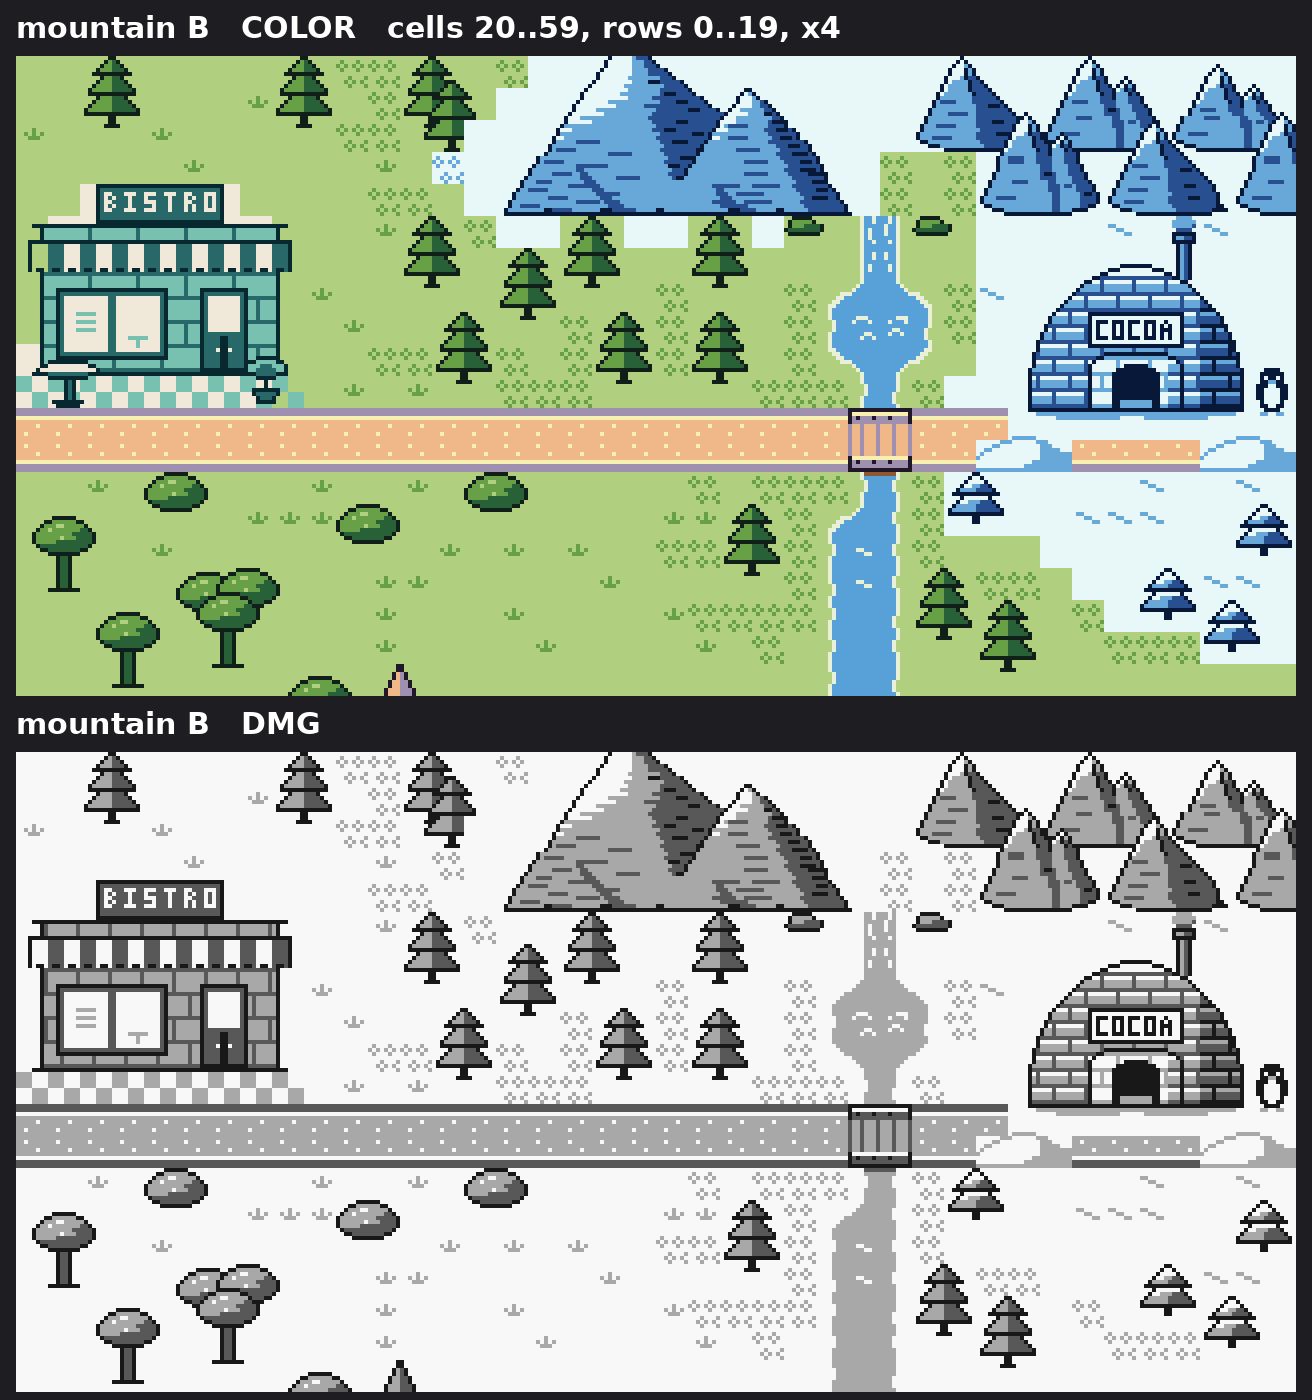
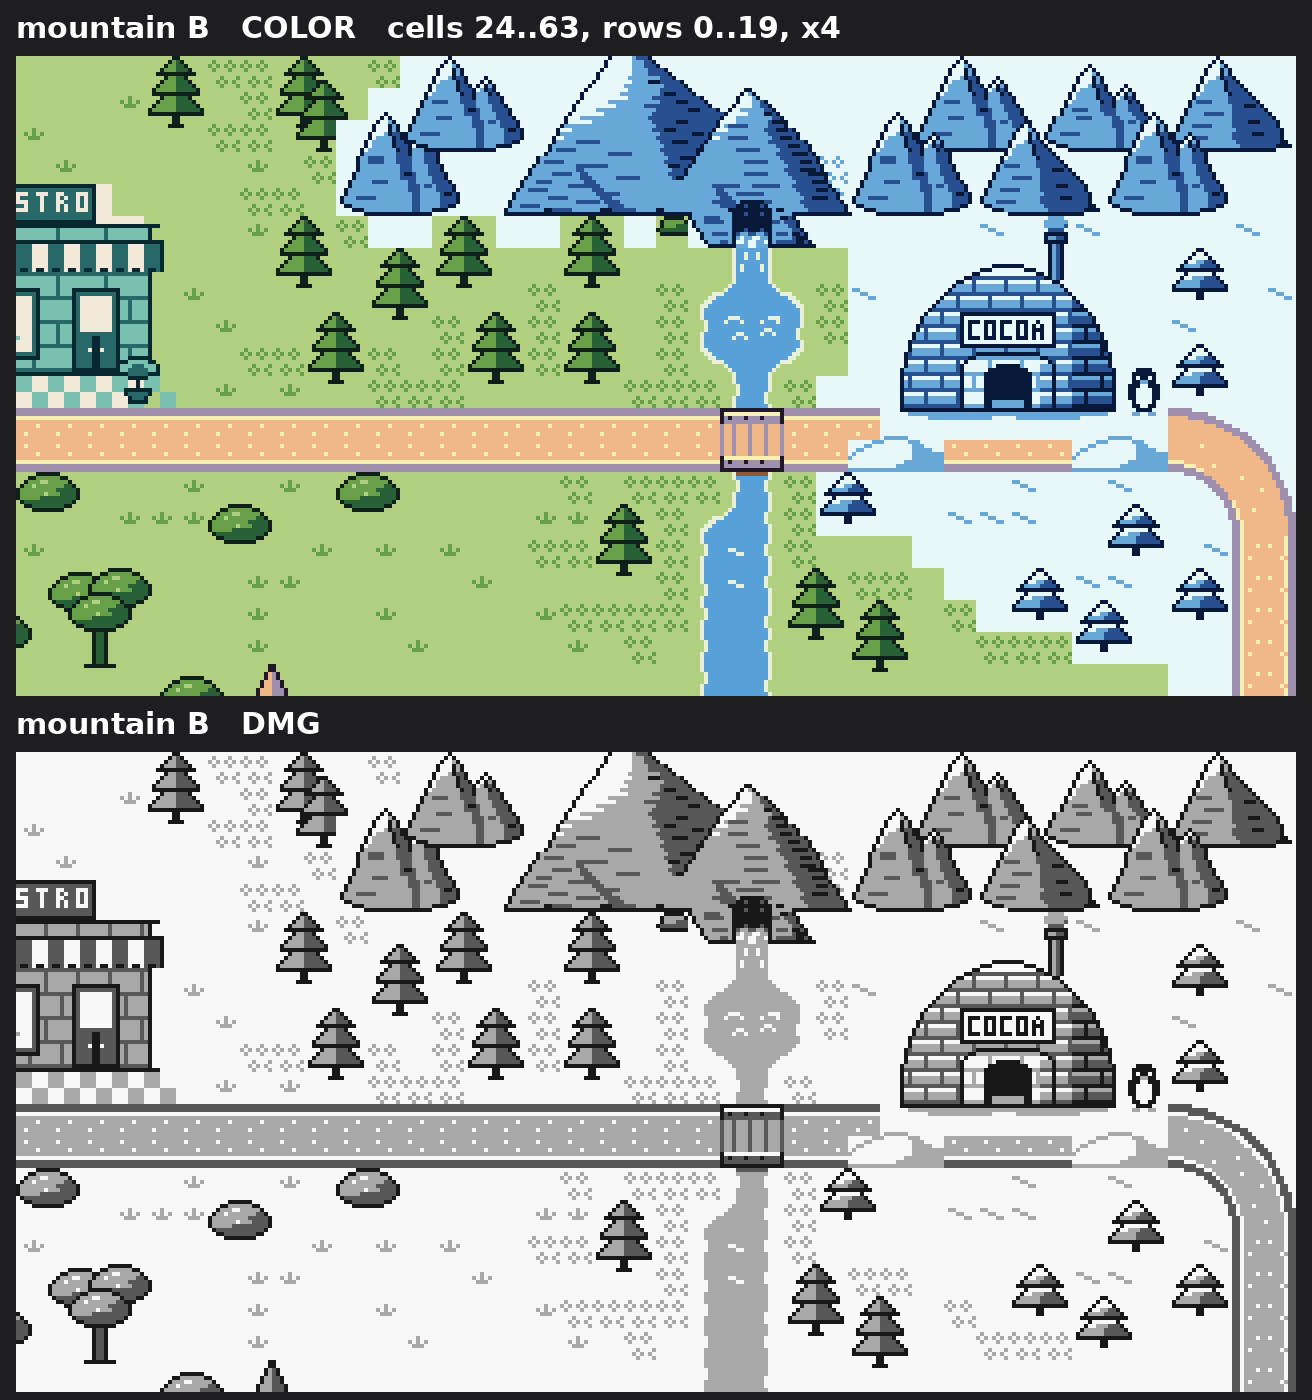
Story map import stage 1j: mountain B chosen, the falls come out of a cave mouth in its flank (owner Q117)
Proposals only, no goldens or engine budgets touched. B moves 32 px east so its right flank stands over the head of the falls; a typed rock ledge and a dark cave mouth (falls_cave.py) let the approved falls streaks come out of the mountain into the existing falls and pool. The two row-5 falls cells and the ledge cells take the igloo palette; the 6 animation images keep their count, so the VBlank peak stays 6 tiles (96 B). B is now the default: A' with B and the falls is 973 DMG / 1038 Color ids, 15 over; the teahouse +1 and four ways under 1024 are measured in NOTES.md, none applied. Window view and falls strip/GIF added.

Claude-Session: https://claude.ai/code/session_01WXumg9pvGTKbXyU3qBciuY

diff --git a/docs/dev/proposals/smap_import/falls_cave.py b/docs/dev/proposals/smap_import/falls_cave.py
@@ -1,0 +1,105 @@
+"""The falls come out of mountain B (owner Q117: "I like b more, but waterfall should be coming out of mountain"), proposal only.
+
+Mountain B is placed 16 px further east (big_mountain.PLACES["B"]) so its right flank stands over the head of the falls.  Under the flank a rock LEDGE steps down to the falls' top row (map row 5,
+y 40..47, x 360..391), and a dark CAVE MOUTH is cut into its face over the channel (x 371..380); the water comes out of the dark at the foot of the mouth (y 44..47) and drops into the existing
+falls tiles of row 6 and the pool, which are untouched.  Nothing is drawn above the mountain: no river is visible above it.
+  - The ledge and mouth are typed below, row by row (LEDGE).  Same look as the mountain: lit left (1), shaded right (2), ink outline (3), snow 0; lit/shade ridge zig-zagging; the outline steps 1
+    to 3 px, the flank flares to the right like the mountain's own foot (no straight vertical edge).
+  - The two falls cells of row 5, (46,5) and (47,5), take the `igloo` palette together with the ledge cells (45..49, 5), so the flow pixels there are the DMG light map (foam 0, water 1: on Color
+    the igloo pale blue 104 168 216 against the water palette's 88 160 216, and snow white against the pool's cream foam).  Row 6 and the pool stay on the `water` palette, approved art.
+  - FLOW: the approved falls streaks (FALL_COLS, FALL_STEP, FALL_FRAMES: copied unchanged from smap_anim/items.py) show through the mouth on its bottom 4 rows, the first of them in shadow
+    (foam 1, water 2).  The 4 animation frames of each of the two row-5 cells therefore carry the mountain pixels (the ledge and mouth are the same in every frame, only the flow changes).
+  Animation cost: the two cells keep their 4 images each (frame 0 is the map tile): the same 6 images as the approved FL_A and FR_A, now with rock in them; no extra cells, so the VBlank peak
+  per view is unchanged (igloo view 6 tiles, 96 B)."""
+
+FALL_COLS = ["++-+++-+++-+", "-------++--+", "++---+++---+", "----++-----+", "--+++----++-", "+++---++---+", "-----+++---+", "+++-++-+++-+"]       # approved (smap_anim/items.py)
+FALL_STEP, FALL_FRAMES = 3, 4
+X0, Y0 = 360, 40                                         # top left of the typed LEDGE block (40 x 8 px)
+FLOW_X0, FLOW_Y0 = 372, 44                               # the flow window: x 372..379, y 44..47
+# '.' keeps the map's own pixel, 'f' is the flow window, digits are igloo-palette pixels (0 snow, 1 pale rock, 2 deep, 3 ink)
+LEDGE = [
+    "3" + "1" * 10 + "3" * 10 + "1" * 2 + "2" * 3 + "3" + "." * 13,                                # y 40, x 360..: lit face, the mouth (10 wide, x 371..380), a shaded strip on the right
+    ".3" + "1" * 9 + "3" * 10 + "1" * 3 + "2" * 3 + "3" + "." * 12,                                # y 41
+    ".3" + "1" * 9 + "3" * 10 + "1" * 4 + "2" * 2 + "3" + "." * 12,                                # y 42
+    "..3" + "1" * 8 + "3" + "33233323" + "3" + "1" * 5 + "2" * 2 + "3" + "." * 11,                # y 43: the dark of the mouth, two deep flecks
+    "...3" + "1" * 7 + "3" + "f" * 8 + "3" + "1" * 5 + "2" * 3 + "3" + "." * 10,                  # y 44: walls, the flow window opens
+    "...3" + "1" * 7 + "3" + "f" * 8 + "3" + "1" * 5 + "2" * 3 + "3" + "." * 10,                  # y 45
+    "....3" + "1" * 6 + "3" + "f" * 8 + "3" + "1" * 5 + "2" * 4 + "3" + "." * 9,                  # y 46
+    "....." + "3" * 7 + "f" * 8 + "3" * 12 + "." * 8,                                             # y 47: foot line, open where the water leaves
+]
+for _r in LEDGE:
+    assert len(_r) == 40, (len(_r), _r)
+ARCH = {36: (373, "333333"), 37: (372, "33233323"), 38: (371, "3333333333"), 39: (371, "3332333233")}      # y: (x start, pixels): the mouth widens 6, 8, 10, 10 px going down into the ledge rows
+STRATA = [(0, 4, 7), (0, 15, 19), (1, 4, 8), (1, 20, 22), (4, 6, 9), (4, 22, 24), (6, 8, 9), (6, 22, 25)]       # (y - 40, i0, i1): dashes on the lit face, '1' -> '2'
+CREASE = [(0, 23, 24), (4, 26, 27), (5, 27, 28), (6, 27, 28)]                                                    # dark marks on the shaded face, '2' -> '3'
+CELLS = [(45, 5), (46, 5), (47, 5), (48, 5), (49, 5)]                           # take the igloo palette
+
+
+def ledge_rows():
+    g = [list(r) for r in LEDGE]
+    for (j, a, b) in STRATA:
+        for i in range(a, b + 1):
+            if g[j][i] == "1":
+                g[j][i] = "2"
+    for (j, a, b) in CREASE:
+        for i in range(a, b + 1):
+            if g[j][i] == "2":
+                g[j][i] = "3"
+    return ["".join(r) for r in g]
+
+
+def fall_rows(side, k):
+    """rows of one approved falls cell pair on frame k, 16 rows of 8 chars ('.' land, '-' foam, '+' water); only the water columns matter here"""
+    cols = range(0, 4) if side == "L" else range(4, 8)
+    out = []
+    for r in range(16):
+        row = list("...-++++" if side == "L" else "++++-...")
+        for i, f in enumerate(cols):
+            if r < 12 and FALL_COLS[f][(r - FALL_STEP * k) % 12] == "-":
+                row[4 + i if side == "L" else i] = "-"
+        out.append("".join(row))
+    return out
+
+
+def flow(k):
+    """4 rows of the 8 flow pixels (x 372..379) on frame k as igloo indices: the top row in shadow (foam 1, water 2), the others foam 0, water 1"""
+    L, R = fall_rows("L", k), fall_rows("R", k)
+    rows = []
+    for t in range(4):
+        s = L[4 + t][4:8] + R[4 + t][0:4]
+        rows.append([({"-": 1, "+": 2} if t == 0 else {"-": 0, "+": 1})[c] for c in s])
+    return rows
+
+
+def cell_pixels(k=0):
+    """the 40 x 8 block (x 360..399, y 40..47) on frame k: dict {(x, y): value} for every typed pixel (the '.' ones are left to the map)"""
+    out = {}
+    fl = flow(k)
+    for j, row in enumerate(ledge_rows()):
+        for i, c in enumerate(row):
+            if c == ".":
+                continue
+            if c == "f":
+                out[(X0 + i, Y0 + j)] = fl[j - 4][i - 12]
+            else:
+                out[(X0 + i, Y0 + j)] = int(c)
+    return out
+
+
+def apply(WORLDS):
+    px = cell_pixels(0)
+    for x in range(X0 + 1, 386):                         # the mountain's own foot line at y 39 opens where the ledge hangs from it (the face above is lit there)
+        px[(x, 39)] = 1
+    for y, (xs, s) in ARCH.items():                      # the top of the mouth, cut into the mountain's face above the ledge
+        for i, c in enumerate(s):
+            px[(xs + i, y)] = int(c)
+    for w in WORLDS:
+        for (cx, cy) in CELLS:                           # the cells' ground is snow now: the grass tufts and the bush that stood there go (the rock and the mouth are typed over it)
+            for y in range(cy * 8, cy * 8 + 8):
+                for x in range(cx * 8, cx * 8 + 8):
+                    w.px[y][x] = 0
+        for (x, y), v in px.items():
+            w.px[y][x] = v
+        for (cx, cy) in CELLS:
+            w.pal[cy][cx] = "igloo"
+    return set(CELLS)

diff --git a/docs/dev/proposals/smap_import/big_mountain.py b/docs/dev/proposals/smap_import/big_mountain.py
@@ -105,9 +105,9 @@ def rows():
     return ["".join(r) for r in g]
 
 
-EXTRA_SNOW = {"B": [(33, 3)]}     # west edge of B's snow cells by row: 36 35 34 33 34 (was 36 35 34 34 34, three cells straight)
+EXTRA_SNOW = {"B": []}     # west edge of B's snow cells by row: 36 35 34 33 34 (was 36 35 34 34 34, three cells straight)
 PLACES = {"A": (444, -4, "the top right corner: cropped by the top edge (4 rows) and the east edge (16 columns), foot on the line under range C, behind the igloo's chimney"),
-          "B": (280, -4, "the head of the river: cropped by the top edge (4 rows), the falls leave its foot to the east")}
+          "B": (312, -4, "the head of the river: cropped by the top edge (4 rows); its right flank stands over the head of the falls (falls_cave.py)")}
 
 
 def _pieces(px, x0, y0):
@@ -169,14 +169,62 @@ def _front(px, x0, y0, sil, back_y=12):
     return {(X, Y) for Y in range(Y0, Y1) for X in range(X0, X1) if (X, Y) not in reach}
 
 
+# The ranges' peaks as the map places them (dump_scenes.py PLAN, stage 1c): (x px, foot row px, variant).  Back tier foot on row 24, front tier foot on row 40.
+RANGE_FRONT = [(272, 40, "D"), (304, 40, "C"), (336, 40, "A"), (400, 40, "D"), (432, 40, "B"), (464, 40, "D")]
+RANGE_BACK = [(288, 24, "A"), (320, 24, "B"), (352, 24, "C"), (384, 24, "B"), (416, 24, "A"), (448, 24, "C"), (480, 24, "B")]
+# B replaces the peaks that stand mostly inside its outline (half or more of their width over the mountain's foot, x 312..401): these are taken out and their neighbours repainted whole
+REPLACED_B = {(320, 24), (352, 24), (384, 24), (304, 40), (336, 40)}
+
+
+def _peak_pixels(x, base, k):
+    import sys
+    from pathlib import Path
+    sys.path.insert(0, str(Path(__file__).resolve().parents[1] / "smap_venue_redesign3" / "src"))
+    import range_peaks as RP
+    rws = RP.VARIANTS[k]
+    return {(x + i, base - len(rws) + j): int(c) for j, r in enumerate(rws) for i, c in enumerate(r) if c != "."}
+
+
+def _replace_peaks(WORLDS):
+    """take the REPLACED_B peaks out (their pixels back to snow 0), then repaint every other peak that touched one of them, back tier first, so no neighbour is left cut"""
+    gone = {}
+    for x, base, k in RANGE_BACK + RANGE_FRONT:
+        if (x, base) in REPLACED_B:
+            gone[(x, base)] = _peak_pixels(x, base, k)
+    cut = set().union(*gone.values())
+    for w in WORLDS:
+        for (X, Y) in cut:
+            w.px[Y][X] = 0
+        for tier in (RANGE_BACK, RANGE_FRONT):
+            for x, base, k in tier:
+                if (x, base) in REPLACED_B:
+                    continue
+                pp = _peak_pixels(x, base, k)
+                if any(p in cut for p in pp):
+                    for (X, Y), v in pp.items():
+                        w.px[Y][X] = v
+
+
+def _front_peaks():
+    """Mountain B stands OVER the remaining back-tier peaks (their pixels under its outline are overwritten, the rest stay: a natural overlap) and BEHIND the remaining front-tier peaks:
+    the pixels of the front peaks (every char of their typed rows that is not '.', snow caps included) are never overwritten."""
+    out = set()
+    for x, base, k in RANGE_FRONT:
+        if (x, base) not in REPLACED_B:
+            out |= set(_peak_pixels(x, base, k))
+    return out
+
+
 def apply(W_, WORLDS, key):
     """paste the mountain with its top-left at the placement (cropped by the map edges), behind the peaks already there; the cells it touches take the palette `igloo`"""
     x0, y0, _ = PLACES[key]
     rs = rows()
     touched = set()
     sil = {(x0 + i, y0 + j) for j, r in enumerate(rs) for i, c in enumerate(r) if c != "."}
+    if key == "B":
+        _replace_peaks(WORLDS)
     for w in WORLDS:
-        front = _front(w.px, x0, y0, sil)
+        front = _front_peaks() if key == "B" else _front(w.px, x0, y0, sil)
         for j, r in enumerate(rs):
             for i, c in enumerate(r):
                 X, Y = x0 + i, y0 + j
@@ -189,6 +237,10 @@ def apply(W_, WORLDS, key):
         for w in WORLDS:
             if w.pal[cy][cx] != "igloo":
                 w.pal[cy][cx] = "igloo"
+    import os
+    if key == "B" and os.environ.get("SMAP_NO_CAVE") != "1":      # SMAP_NO_CAVE=1: B at its new place without the cave (to cost the cave)
+        import falls_cave                                  # the falls come out of a cave mouth in B's right flank (falls_cave.py)
+        touched |= falls_cave.apply(WORLDS)
     for (cx, cy) in EXTRA_SNOW.get(key, []):                # typed: one cell tab on the snowfield's west edge, so the snow / grass line does not run straight down beside the foot
         assert (cx, cy) not in WORLDS[0].roads
         for w in WORLDS:

diff --git a/docs/dev/proposals/smap_import/falls_frames.py b/docs/dev/proposals/smap_import/falls_frames.py
@@ -1,0 +1,62 @@
+"""python3 falls_frames.py OUTDIR : the four animation frames of the falls coming out of mountain B (falls_cave.py), x6, Color above DMG (light water), as a strip (falls_strip.png) and a GIF
+(falls_anim.gif, 150 ms a step: the approved 9-frame step).  Only the falls cells change between frames: the two row-5 cells (rock, mouth and flow: falls_cave.cell_pixels(k)) and the two row-6
+cells (the approved falls rows 8..15 on frame k, unchanged art).  The DMG preview reads the typed frame through the light map (land 0, foam 0, water 1) for the row-6 cells; the row-5 cells are
+already in the light indices (igloo palette on both machines).  Run with SMAP_BIG=B."""
+import sys
+from pathlib import Path
+
+from PIL import Image, ImageDraw, ImageFont
+
+HERE = Path(__file__).resolve().parent
+sys.path.insert(0, str(HERE))
+import mapctx as M  # noqa: E402
+import falls_cave as FC  # noqa: E402
+
+out = Path(sys.argv[1])
+out.mkdir(parents=True, exist_ok=True)
+BOX = (44, 3, 51, 9)                                           # cells 44..50, rows 3..8
+S = 6
+LIGHT = {0: 0, 1: 0, 2: 1}                                     # approved typed index -> DMG light water index (anim_light.py: foam to 0, water to 1)
+try:
+    font = ImageFont.truetype("/usr/share/fonts/dejavu/DejaVuSans-Bold.ttf", 26)
+except OSError:
+    font = ImageFont.load_default()
+
+
+def set_frame(k):
+    px = FC.cell_pixels(k)
+    for w in (M.W.WORLD, M.W.WORLD_DMG):
+        for (x, y), v in px.items():
+            if FC.FLOW_X0 <= x < FC.FLOW_X0 + 8 and FC.FLOW_Y0 <= y < FC.FLOW_Y0 + 4:
+                w.px[y][x] = v                                # the flow window only: the rest of the ledge is the same on every frame
+    for side, cx in (("L", 46), ("R", 47)):
+        rows = FC.fall_rows(side, k)[8:16]
+        for j, r in enumerate(rows):
+            for i, c in enumerate(r):
+                v = {".": 0, "-": 1, "+": 2}[c]
+                M.W.WORLD.px[48 + j][cx * 8 + i] = v
+                M.W.WORLD_DMG.px[48 + j][cx * 8 + i] = LIGHT[v]
+
+
+frames = []
+for k in range(FC.FALL_FRAMES):
+    set_frame(k)
+    frames.append((M.render(True, BOX, S).convert("RGB"), M.render(False, BOX, S).convert("RGB")))
+w, h = frames[0][0].size
+strip = Image.new("RGB", (len(frames) * (w + 12) + 12, 2 * h + 110), (30, 30, 34))
+d = ImageDraw.Draw(strip)
+d.text((12, 8), "falls out of the mountain, frames 0..3 (150 ms a step), x6: Color above, DMG below", fill=(255, 255, 255), font=font)
+for k, (a, b) in enumerate(frames):
+    x = 12 + k * (w + 12)
+    d.text((x, 44), "frame %d" % k, fill=(255, 255, 255), font=font)
+    strip.paste(a, (x, 80))
+    strip.paste(b, (x, 90 + h))
+strip.save(out / "falls_strip.png")
+gif = []
+for a, b in frames:
+    im = Image.new("RGB", (w, 2 * h + 6), (30, 30, 34))
+    im.paste(a, (0, 0))
+    im.paste(b, (0, h + 6))
+    gif.append(im.convert("P", palette=Image.ADAPTIVE))
+gif[0].save(out / "falls_anim.gif", save_all=True, append_images=gif[1:], duration=150, loop=0)
+print("frames", len(frames), "size", strip.size)

diff --git a/docs/dev/proposals/smap_import/mapctx.py b/docs/dev/proposals/smap_import/mapctx.py
@@ -28,7 +28,7 @@ os.environ.setdefault("SMAP_BRIDGE", "new")
 # all extras (desert peaks, cacti, spill, bamboo, tree clusters), big mountain A, the stadium bush at x 40, light water.  Each switch still overrides: SMAP_CURVE=none gives the r8 corners,
 # SMAP_CURVE=24 uniform r24, SMAP_BIG=none or B, SMAP_CURVE_TRIM=0, SMAP_RADII=... any set.
 if os.environ.get("SMAP_BEFORE_1C") != "1":
-    os.environ.setdefault("SMAP_BIG", "A")
+    os.environ.setdefault("SMAP_BIG", "B")
     os.environ.setdefault("SMAP_STADIUM_BUSH_X", "40")
     os.environ.setdefault("SMAP_CURVE_TRIM", "1")
     if "SMAP_CURVE" not in os.environ:

diff --git a/docs/dev/proposals/smap_import/NOTES.md b/docs/dev/proposals/smap_import/NOTES.md
@@ -170,3 +170,20 @@ The round clusters cost 25 ids, the 10 ids of room after the pines do not cover 
 - **Windowed views** (window_view.py): 40 cells wide, 20 tall, centred on the mountain, x4 (1312 px wide; x2 would be 640 px), Color above DMG: s1e_window_A.png (cells 24..63), s1e_window_B.png (cells 20..59).
 - **Cheapest ways to fit B** (each from A' plus B, Color ids; limit 1023): drop the desert slope peak and the S cactus: 1023 (passes); drop the lawn round clusters RR_L, RR_R, RRR and the jungle JJ: 1018 (passes); drop all tree clusters: 997; the four long bends at r24 instead of r32: about 1007 (visible, the owner wanted bigger curves). Not applied.
 - **Savings on A' for the teahouse pass** (measured one at a time, ids saved; none is invisible, each removes something shown): cactus Q or barrel 1, cactus S or S2 2, bamboo SMALL 3, TALL or MID 6, pine cluster PP or PPP 6, peaks mesa 6, cone 7, spire 7, twin 8, slope 9, lawn round cluster RR_L 8, RR_R, RRR, JJ, JJJ 1 each, spill 0. Combined, and not additive: RR_R + RRR + JJ + JJJ together 17 (1006), all five round clusters 25 (998); four long bends at r24 27 (996, visible). Cheapest, least visible: revert RR_R, RRR, JJ, JJJ to their single trees (17 ids). No invisible saving exists: the Color tile set has no flip merging and no duplicate tiles.
+
+### Stage 1j: mountain B chosen (owner Q117: "I like b more, but waterfall should be coming out of mountain")
+- **Placement.** B moved 32 px east (x 312..401, top 4 rows off the map) so its right flank stands over the head of the falls. It stands over the remaining back-tier range peaks and behind the remaining front-tier ones; five range peaks that stand mostly inside its outline are taken out and their neighbours repainted whole (REPLACED_B: back x 320, 352, 384, front x 304, 336). The right foot keeps its diagonal flare (no vertical edge). No river is drawn above the mountain.
+- **Falls from the mountain** (falls_cave.py, typed): a rock ledge steps down from the foot to the falls' top row (map row 5, y 40..47, x 360..391, flaring edges), with a dark cave mouth (10 px wide, 12 rows from y 36, widening 6 / 8 / 10 px, two deep flecks) over the channel (x 371..380). The water comes out of the dark in the mouth's bottom four rows (the first in shadow) and drops into the untouched falls tiles of row 6 and the pool. The two falls cells of row 5, (46,5) and (47,5), and the ledge cells (45..49,5) take the `igloo` palette (flow pixels in the DMG light indices: foam 0, water 1; on Color pale blue 104 168 216 against the water palette's 88 160 216). The grass tufts and a bush that stood in those cells go.
+- **Animation.** The approved falls streaks (FALL_COLS, step 3 rows, 4 frames, 9 video frames a step, copied unchanged) run through the mouth. The two row-5 cells keep 4 images each (frame 0 is the map tile) and now carry the rock and mouth pixels: 6 animation images, the same count as the approved FL_A and FR_A, so +0 extra images and +0 animated cells. DMG VBlank peak per view is unchanged at 6 tiles (96 B, the igloo view). Map tile cost of the cave: +2 Color and +2 DMG ids over B without it. falls_frames.py makes the strip and GIF (s1e_falls_strip.png, s1e_falls_anim.gif, x6, Color above DMG). On DMG light water the row-6 falls and the pool stay flat grey (foam and water share the light shade): the stage 3 note on typed DMG foam frames still stands.
+- **Numbers, A' with B and the falls from the mountain** (DMG / Color ids of 1024 / worst DMG view / over 8): 973 / 1038 / 170 / 0, 15 over the 1023 maximum (generator fails); the teahouse at +1 makes 1039, 16 over. B without the cave 971 / 1036. The worst DMG view is 170, over the 165 flag and under 176. (A' with A for reference: 958 / 1023 / 156.)
+- **Ways under 1024** (each measured with B + cave; the teahouse +1 is on top; none applied):
+| way | what visibly goes | DMG | Color | with teahouse +1 |
+|---|---|---|---|---|
+| four round clumps back to single trees (RR_R, RRR, JJ, JJJ) | those four clusters (the RR_L lawn pair and the pines stay) | 957 | 1021 | 1022 |
+| two desert peaks out: twin and slope | the two biggest peaks beside the airbase | 956 | 1021 | 1022 |
+| one peak and one cactus: slope and S | only the slope peak and one cactus | 962 | 1027 | does not fit |
+| the four long bends at r24 instead of r32 | the four sweeping curves are 8 px tighter | 946 | 1011 | 1012 |
+| slope and cone peaks out | two peaks | 957 | 1022 | 1023 |
+| four round clumps and the S2 cactus | one cactus more | 955 | 1019 | 1020 |
+The rework itself frees nothing: the river cells it covers had no tiles of their own. mapctx.py now defaults to B, so the default map fails the generator by 15 until the owner picks one of these.
+- Sheets: s1e_window_B.png (40 x 20 cells, x4, Color above DMG), s1e_falls_strip.png and s1e_falls_anim.gif.
